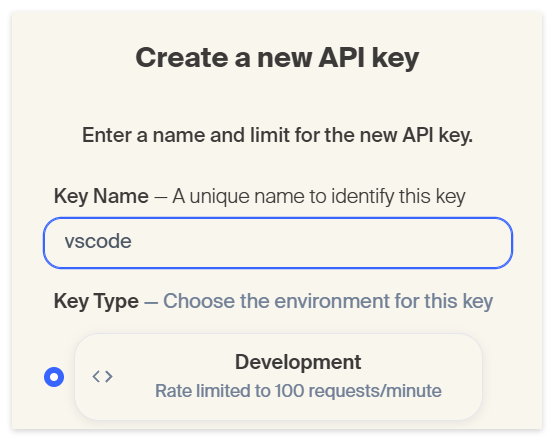
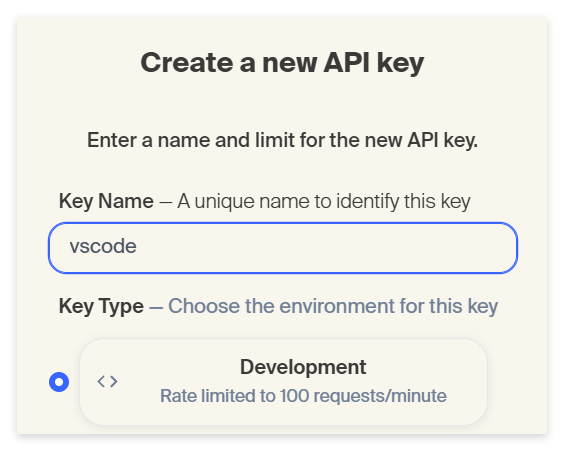
Reduce Tavily API key screenshot size

diff --git a/02-add-web-search.md b/02-add-web-search.md
@@ -62,7 +62,7 @@ fine. Copy the key when it is shown.
 
 <a href="assets/02-tavily-getting-started.png"><img src="assets/screenshots/02-tavily-getting-started.png" alt="Tavily Getting started page with Manage keys" width="875"></a>
 
-<a href="assets/02-create-tavily-key.png"><img src="assets/screenshots/02-create-tavily-key.png" alt="Creating a Tavily development API key named vscode" width="554"></a>
+<a href="assets/02-create-tavily-key.png"><img src="assets/screenshots/02-create-tavily-key.png" alt="Creating a Tavily development API key named vscode" width="404"></a>
 
 <a href="assets/02-tavily-key-list.png"><img src="assets/screenshots/02-tavily-key-list.png" alt="Tavily API-key list with the copy button and masked keys" width="874"></a>
 
